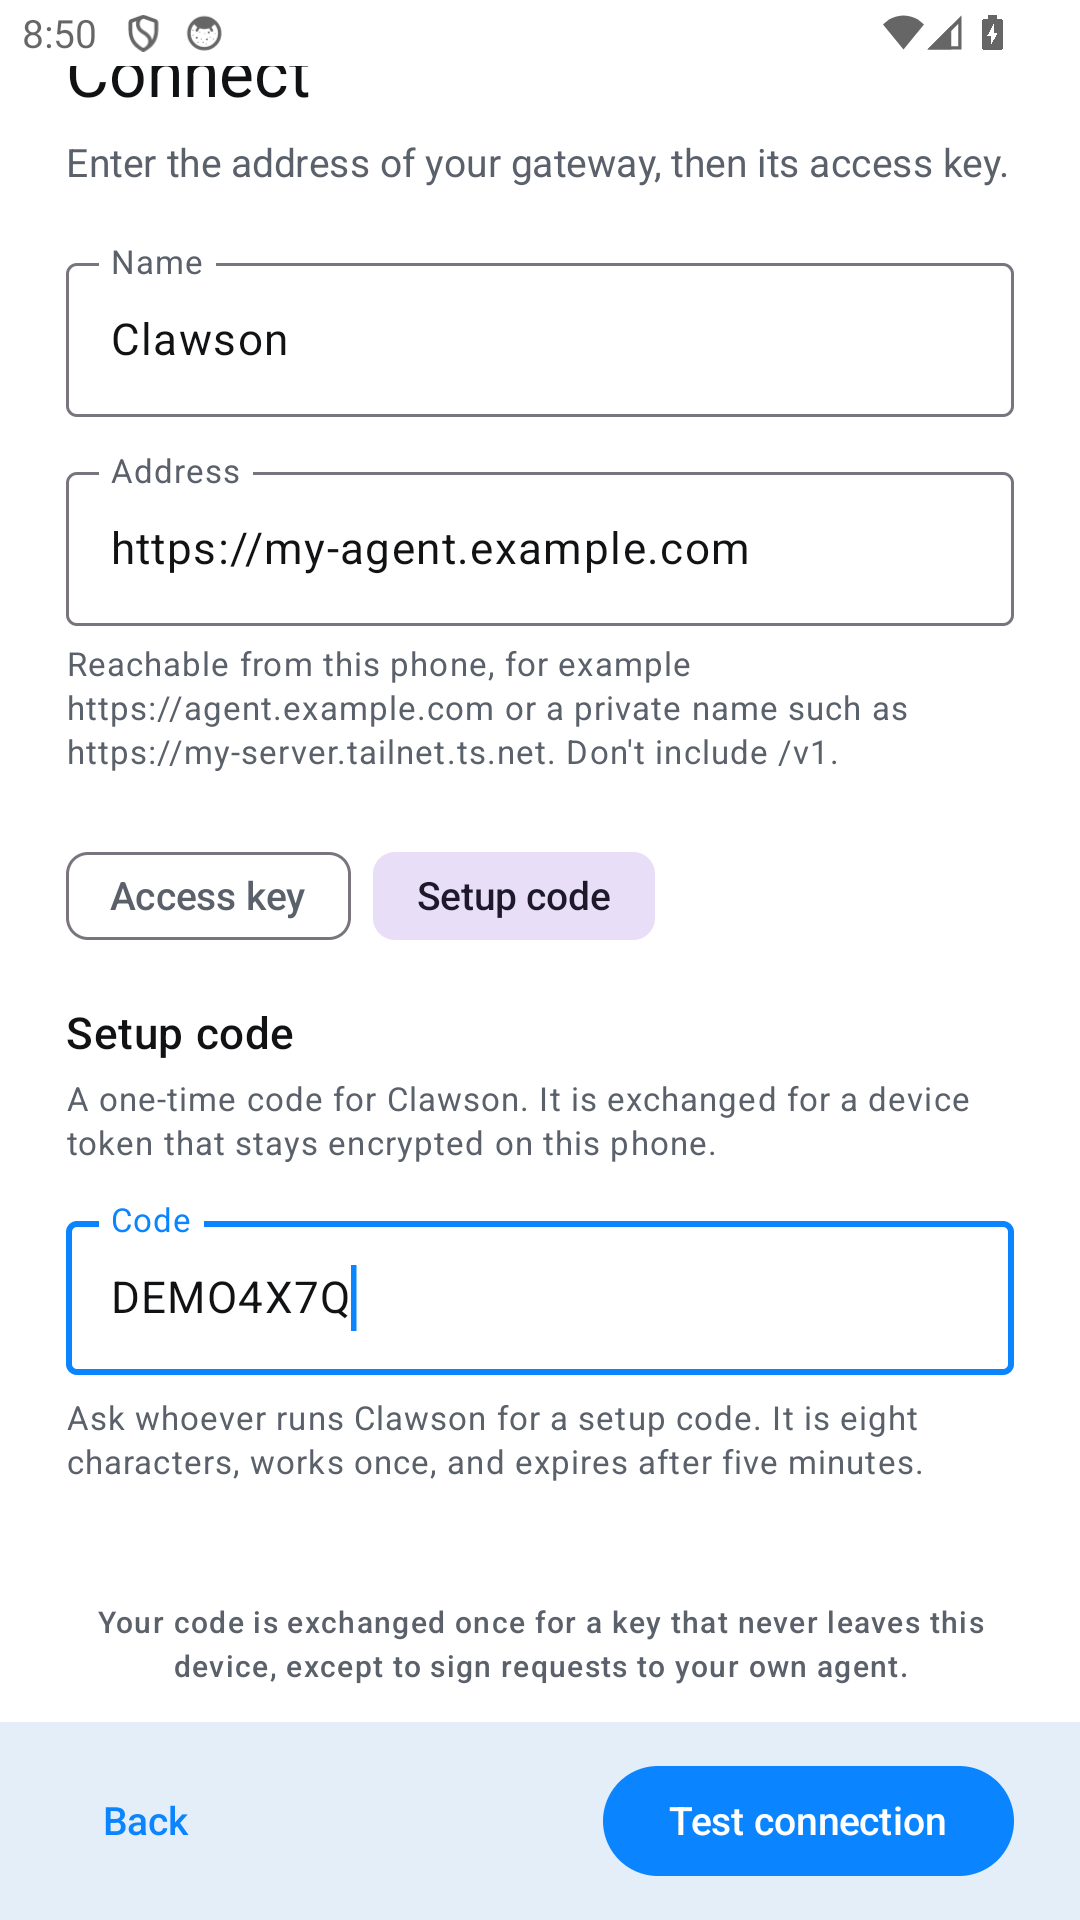
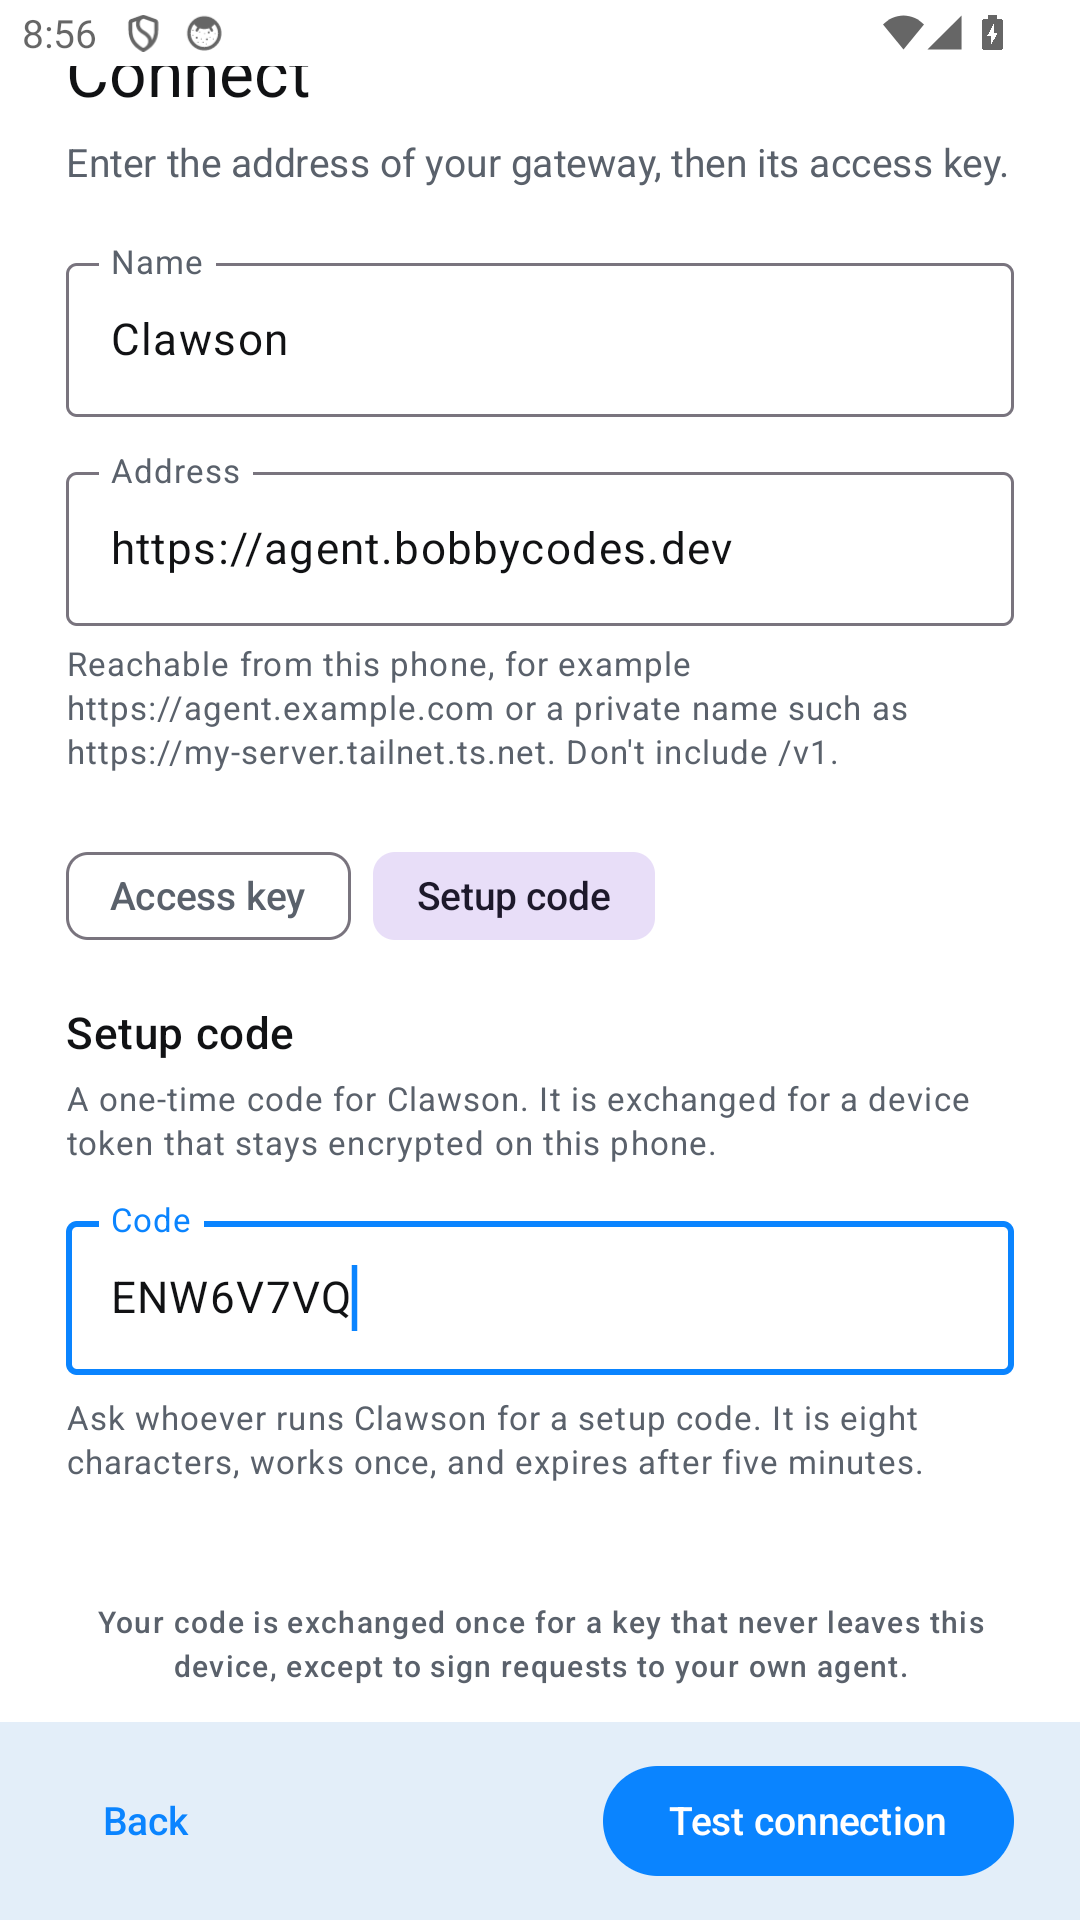
docs: screenshot gallery in the README
The chat capture's reply bubble renders without legible text, so it is out until
that is looked at. Adds the review, ready and settings screens.

diff --git a/README.md b/README.md
@@ -10,18 +10,19 @@ Download the newest build from the
 
 ## What it looks like
 
-| First run | Where your agent lives |
-|---|---|
-| <img src="screenshots/01-first-run.png" width="230" alt="First-run welcome screen"> | <img src="screenshots/02-where-your-agent-lives.png" width="230" alt="Choosing the kind of agent to connect"> |
+Real screenshots from the signed 1.0.0 build, on a phone pointed at a live Hermes gateway.
 
-| One-time setup code | Chatting |
-|---|---|
-| <img src="screenshots/03-one-time-code.png" width="230" alt="Entering a one-time setup code instead of an API key"> | <img src="screenshots/04-chat.png" width="230" alt="A conversation with an agent"> |
+| First run | Pick where your agent lives | Connect with a one-time code |
+|---|---|---|
+| <img src="screenshots/01-first-run.png" width="230" alt="First-run welcome screen"> | <img src="screenshots/02-where-your-agent-lives.png" width="230" alt="Choosing the kind of agent to connect"> | <img src="screenshots/03-one-time-code.png" width="230" alt="Entering a one-time setup code instead of an API key"> |
+
+| Check the details first | Ready | Settings, agents and notifications |
+|---|---|---|
+| <img src="screenshots/04-check-the-details.png" width="230" alt="Review screen before anything is saved"> | <img src="screenshots/05-ready.png" width="230" alt="Setup complete"> | <img src="screenshots/06-settings-agents.png" width="230" alt="Settings: agents and notifications"> |
 
 Five steps from install to first message. Setup takes one of two credentials: an access key, or a
 single-use **setup code** minted on your server — in that case the master key never reaches the
-phone, only a revocable per-device token does. Names, addresses and the code in these screenshots
-are examples.
+phone, only a revocable per-device token does.
 
 ## Install
 
